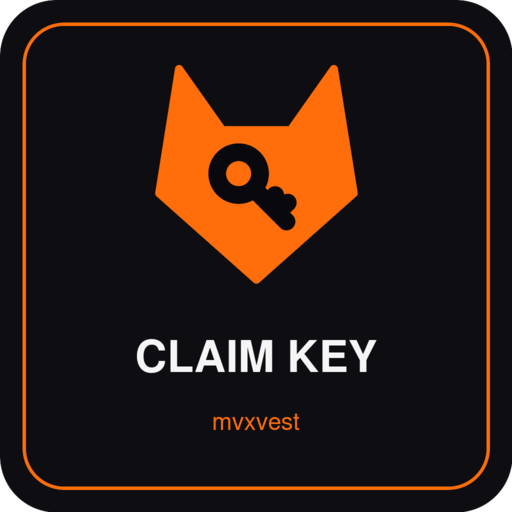
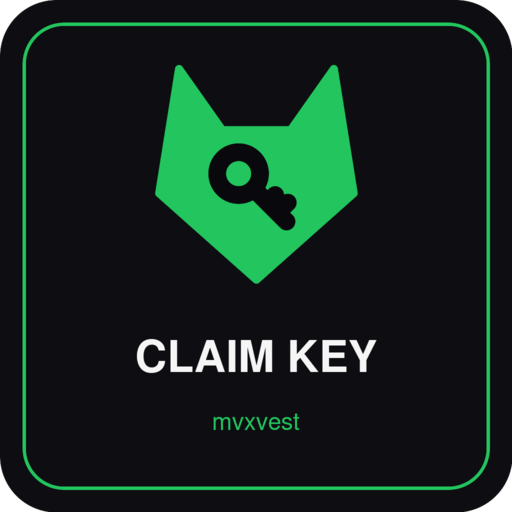
Claim key NFT in green (cancel stays red), under a new file name
Suggested by Sebastian: claim reads green, cancel red. claim-key-2.* is
the new name so media caches fetch it; claim-key.* is green too for keys
already minted. scripts/src/display.ts points a key kind at new images.

Changed region(s): [[0.2812, 0.125, 0.7188, 0.5625], [0.0312, 0.0312, 0.9688, 0.9688], [0.4062, 0.8125, 0.5938, 0.8438]]

diff --git a/scripts/src/display.ts b/scripts/src/display.ts
@@ -1,0 +1,28 @@
+// Points one kind of key at new images: what keys minted from now on show.
+// (Keys already minted keep the URIs they were minted with.)
+//
+//   pnpm tsx src/display.ts Claim claim-key-2
+//
+// Devnet and testnet only; on mainnet this is a multisig proposal.
+
+import { abi, contractAddress, entrypoint, network, send, signer } from "./lib.js";
+
+const [kind, file] = process.argv.slice(2);
+if ((kind !== "Claim" && kind !== "Cancel") || !file) {
+  throw new Error("Usage: pnpm tsx src/display.ts <Claim|Cancel> <file name in dapp/public/nft, without extension>");
+}
+const site = network() === "devnet" ? "https://devnet.mvxvest.io" : "https://mvxvest.io";
+for (const extension of ["png", "svg"]) {
+  const response = await fetch(`${site}/nft/${file}.${extension}`, { method: "HEAD" });
+  if (!response.ok) throw new Error(`${site}/nft/${file}.${extension} answered ${response.status}: deploy the dApp first`);
+}
+const owner = await signer("owner");
+const controller = entrypoint().createSmartContractController(abi());
+const tx = await controller.createTransactionForExecute(owner, owner.getNonceThenIncrement(), {
+  contract: contractAddress(),
+  function: "setKeyDisplay",
+  // PNG first: wallets show the first URI, and not all of them render SVG.
+  arguments: [kind, "", `${site}/nft/${file}.png`, `${site}/nft/${file}.svg`],
+  gasLimit: 10_000_000n,
+});
+await send(`setKeyDisplay ${kind} -> ${file}`, tx);

diff --git a/scripts/src/setup.ts b/scripts/src/setup.ts
@@ -80,7 +80,8 @@ for (const [kind, field] of [
 // How keys look. Devnet points at placeholder images on devnet.mvxvest.io.
 const site = network() === "devnet" ? "https://devnet.mvxvest.io" : "https://mvxvest.io";
 for (const [kind, file] of [
-  ["Claim", "claim-key"],
+  // "-2": the green claim key (12 Oct 2026); a new name so media caches fetch it.
+  ["Claim", "claim-key-2"],
   ["Cancel", "cancel-key"],
 ] as const) {
   // PNG first: wallets show the first URI, and not all of them render SVG.
